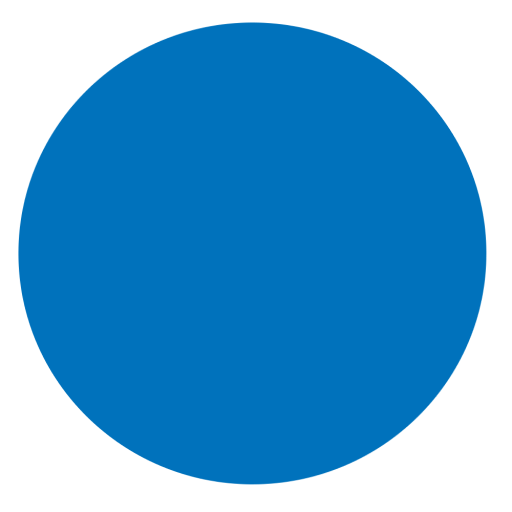
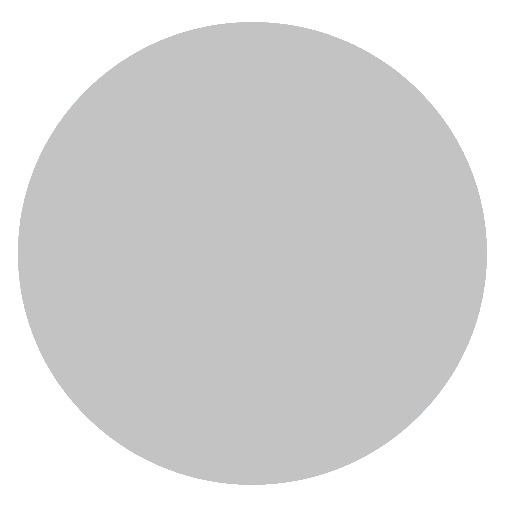
bg fix

diff --git a/src/render/drawer.h b/src/render/drawer.h
@@ -87,8 +87,8 @@ namespace game_drawer_layer {
 					}
 				}
 				else {
-					b = textureManager_.RequireResource("cs");
-					s = sf::Sprite(*textureManager_.GetResource("cs"));
+					b = textureManager_.RequireResource("circle");
+					s = sf::Sprite(*textureManager_.GetResource("circle"));
 				}
 
 				
@@ -333,11 +333,11 @@ namespace game_drawer_layer {
 
 			textureManager_.RequireResource("bg");
 			sf::Texture* bg_texture = textureManager_.GetResource("bg");
-			bg_texture->setRepeated(true);
-			bg = sf::Sprite(*bg_texture,
-				sf::IntRect(0, 0, config.window_videomode.width, config.window_videomode.height)
-			);
+			float kw = 0.999f* config.window_videomode.width / bg_texture->getSize().x;
+			float kh = 0.999f*config.window_videomode.height / bg_texture->getSize().y;
+
 			bg.setTexture(*bg_texture);
+			bg.scale(kw, kh);
 		}
 
 		void reset()
